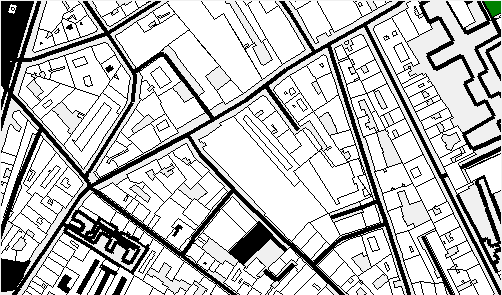
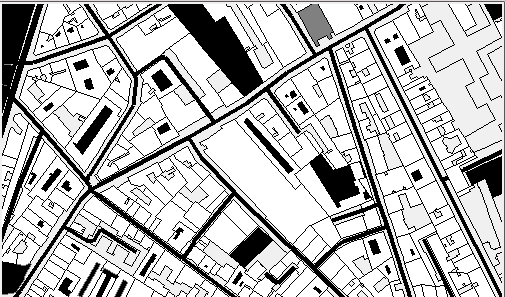
Better capture

diff --git a/Tkui.py b/Tkui.py
@@ -4,7 +4,7 @@ from palette import Style
 
 from Echelle import Echelle
 
-mapData = create_map_from_file("data/map.osm")
+mapData = create_map_from_file("data/map3.osm")
 
 mapData.describe()
 echelle = Echelle(mapData, maxX=500)
@@ -16,7 +16,7 @@ canvas = Canvas(top, width=echelle.maxX, height=echelle.maxY)
 
 style = Style()
 
-for key, way in mapData.ways.items():
+for way in mapData.ways.values():
     points = [(echelle.convert_lon_pos_to_px(node.lon), echelle.convert_lat_pos_to_px(node.lat)) for node in way.nodes]
 
     style_parameters = style.get_parameters(way)
